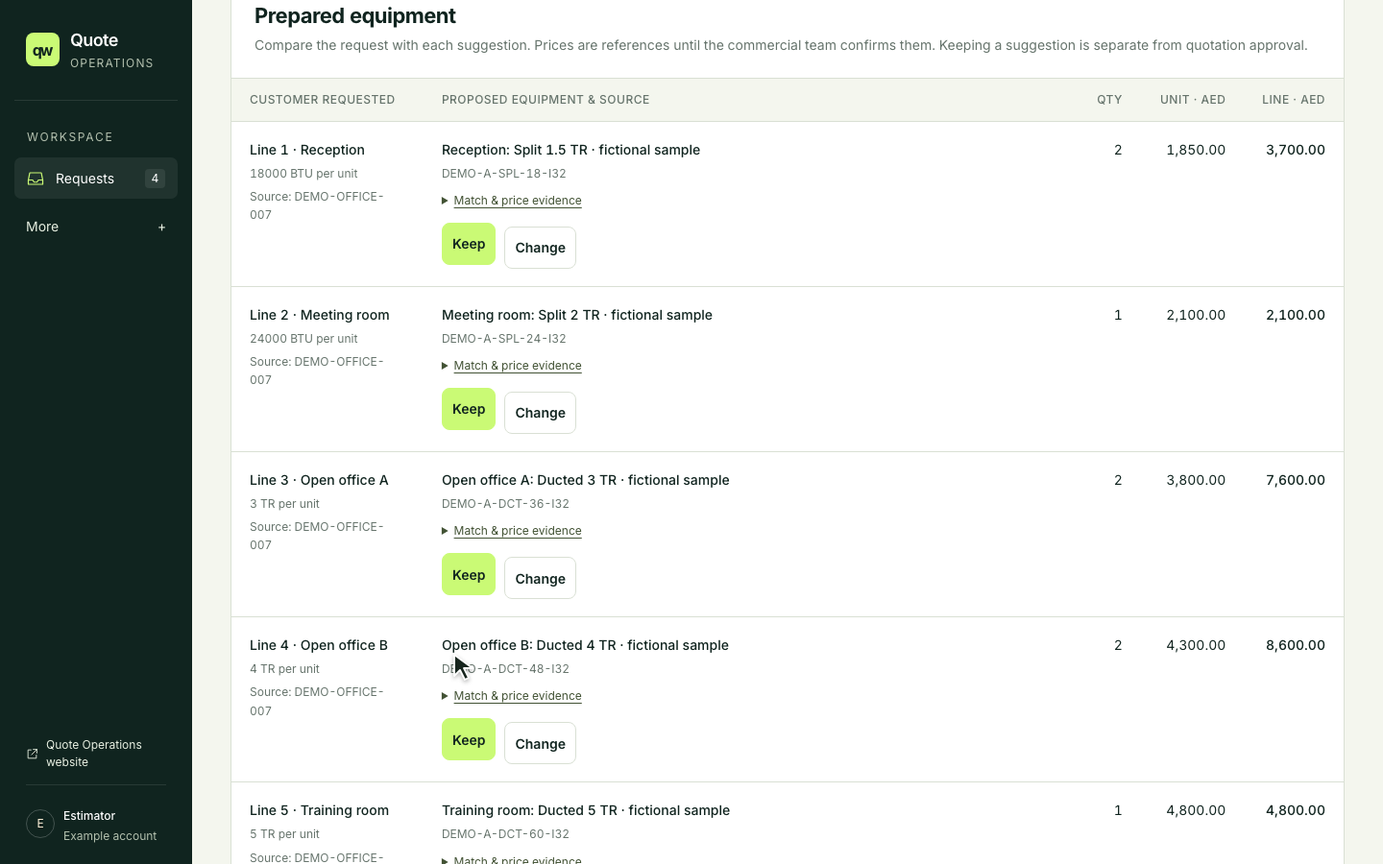
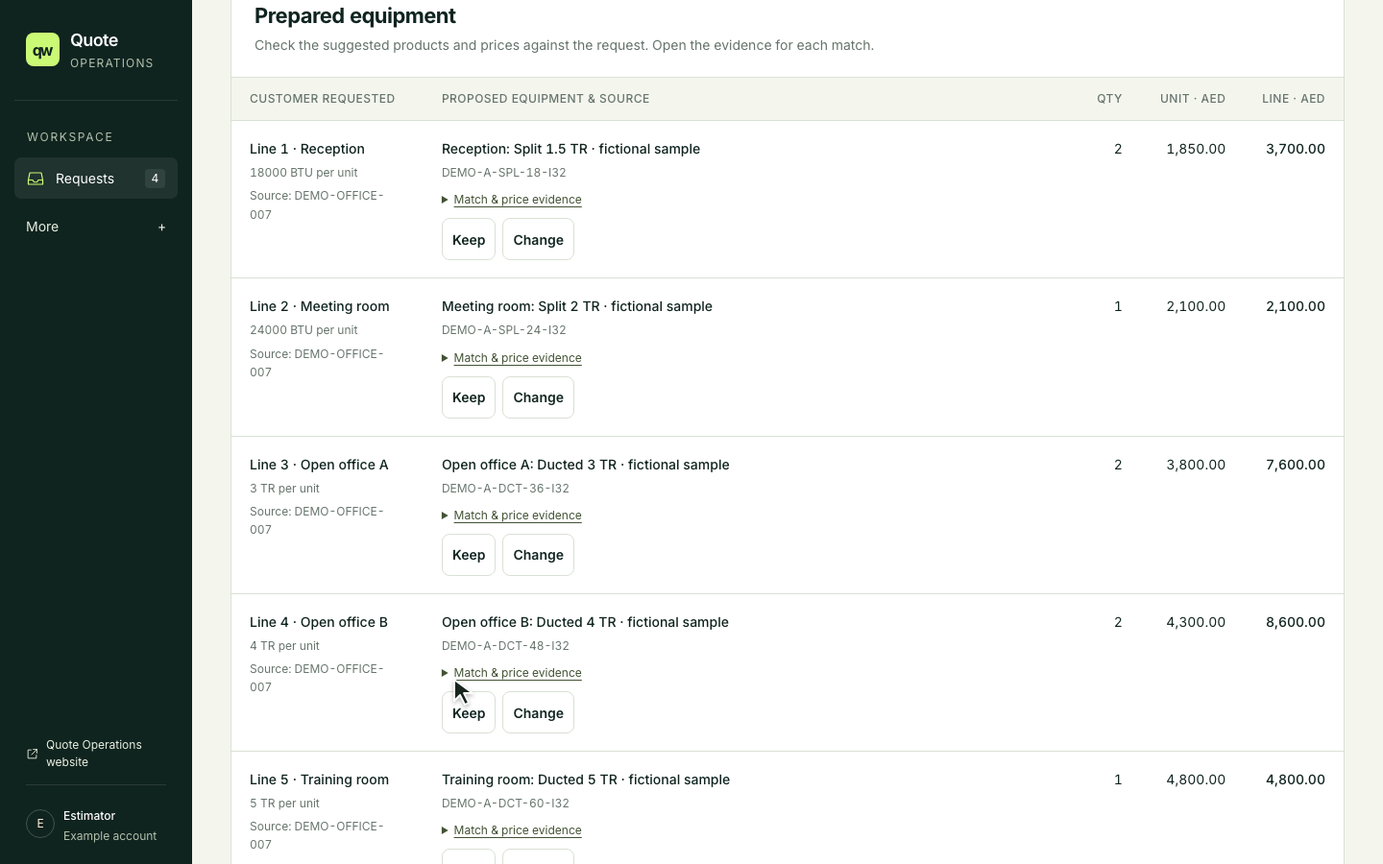
Clarify Quote Operations positioning and refresh product screenshot

diff --git a/docs/index.html b/docs/index.html
@@ -1,7 +1,7 @@
 <!doctype html>
 <html lang="en"><head><meta charset="utf-8"><meta name="viewport" content="width=device-width,initial-scale=1"><meta name="robots" content="index,follow"><title>Khaled / Product portfolio</title><meta name="description" content="Khaled is a founder in Dubai building practical products for quotation, customer support and property teams."><meta property="og:type" content="website"><meta property="og:image" content="https://kbartawi.github.io/media/portfolio.png"><meta property="og:title" content="Khaled / Product portfolio"><meta property="og:description" content="Khaled is a founder in Dubai building practical products for quotation, customer support and property teams."><link rel="canonical" href="https://kbartawi.github.io/"><meta property="og:url" content="https://kbartawi.github.io/"><link rel="stylesheet" href="/fonts.css"><link rel="stylesheet" href="/review.css"><link rel="stylesheet" href="/portfolio.css"></head><body class="public-portfolio "><a class="skip" href="#main">Skip to content</a><header class="top"><a class="monogram" href="/" aria-label="KB portfolio home">kb<span> / </span></a><span class="edition">PRODUCT PORTFOLIO</span><nav class="portfolio-nav" aria-label="Main navigation"><a href="/#projects" aria-current="page">Projects</a><a href="/#about">About</a><a href="https://github.com/Kbartawi" target="_blank" rel="noopener noreferrer">GitHub ↗</a></nav></header><main id="main">
     <section class="intro"><p class="eyebrow">KHALED · FOUNDER IN DUBAI</p><h1>Four products.<br><span>A clearer point of view.</span></h1><div class="intro-bottom"><p>I’m Khaled, a founder in Dubai.<br>I build practical products for busy teams.</p><p class="review-note">B2B products · Arabic + English<br>Explore the audience, the product and what comes next.</p></div></section>
-    <section id="projects" aria-label="Projects"><a class="feature project hvac" href="/projects/quote-operations/"><img src="/media/quote-review-current.png" alt="Quote Operations draft review showing prepared equipment, source evidence and decisions needing a person. Fictional demonstration data." width="1672" height="941" fetchpriority="high"><div class="feature-shade"></div><div class="feature-heading"><span class="brand hvac">quote operations<span>.</span></span><span class="tag">B2B / EQUIPMENT QUOTATIONS</span></div><div class="feature-content"><p class="eyebrow">HVAC EQUIPMENT SALES AND ESTIMATING TEAMS</p><h2>A request in.<br><em>A draft to review.</em></h2><p>AI-assisted equipment quotation preparation. Turn a customer request into a matched, priced draft, with the missing details and decisions together.</p><span class="open-button">Meet Quote Operations <span aria-hidden="true">↗</span></span></div><div class="feature-foot"><span>Working AI demo · Pilot preparation</span><span>UAE · English + Arabic</span></div></a><div class="grid"><a class="project small oris" href="/projects/oris/"><div class="card-heading"><span class="brand oris">oris<span aria-hidden="true">✳</span></span><span>02 / B2B<br>CUSTOMER SUPPORT</span></div><div class="card-visual oris-visual" aria-hidden="true"><div class="chat" lang="ar" dir="rtl">هل التوصيل متاح إلى الشارقة؟</div><div class="chat reply">The right context.<br><strong>A more useful handoff.</strong></div><span class="signal"><i></i> Human attention</span></div><div class="card-copy"><h2>Every conversation,<br><em>with context.</em></h2><p>Arabic and English customer support built around business knowledge, useful answers and a clear handoff to a person.</p><dl class="card-facts"><div><dt>For</dt><dd>E-commerce brands and customer support teams</dd></div><div><dt>Stage</dt><dd>Live product</dd></div></dl><span class="text-link">Meet Oris <span aria-hidden="true">↗</span></span></div></a><a class="project small manzl" href="/projects/manzl/"><div class="card-heading"><span class="brand manzl">manzl<span>.</span></span><span>03 / B2B<br>LEASING ENQUIRIES</span></div><div class="card-visual"><img src="/media/manzl-apartment.webp" alt="Illustrative apartment with warm natural materials" width="1672" height="941" loading="lazy"><span class="property-caption">Leasing enquiries</span></div><div class="card-copy"><h2>Meet Reem.<br><em>Move things forward.</em></h2><p>An AI leasing assistant that qualifies enquiries, proposes viewing slots and prepares a useful handoff for the human agent.</p><dl class="card-facts"><div><dt>For</dt><dd>UAE brokerages and property management teams</dd></div><div><dt>Stage</dt><dd>Working prototype</dd></div></dl><span class="text-link">Meet Manzl <span aria-hidden="true">↗</span></span></div></a><a class="project small aqd" href="/projects/aqd/"><div class="card-heading"><span class="brand aqd">aqd<span lang="ar">عقد</span></span><span>04 / B2B<br>TENANCY PREPARATION</span></div><div class="card-visual aqd-visual" aria-hidden="true"><div class="readiness-paper"><span>PREPARATION NOTES</span><div><i>✓</i> Property details</div><div><i>✓</i> Rent schedule</div><div class="open-item"><i>○</i> Tenant documents</div><p>One clear place to begin.</p></div></div><div class="card-copy"><h2>A clearer start.<br><em>A calmer handoff.</em></h2><p>A tenancy close pack that brings property details, documents, cheque planning and open items into one preparation flow.</p><dl class="card-facts"><div><dt>For</dt><dd>Dubai leasing teams and brokerages</dd></div><div><dt>Stage</dt><dd>Working demo</dd></div></dl><span class="text-link">Meet Aqd <span aria-hidden="true">↗</span></span></div></a></div></section>
+    <section id="projects" aria-label="Projects"><a class="feature project hvac" href="/projects/quote-operations/"><img src="/media/quote-review-current.png" alt="Quote Operations equipment review showing requested items beside suggested products, quantities and prices. Fictional sample data." width="1672" height="941" fetchpriority="high"><div class="feature-shade"></div><div class="feature-heading"><span class="brand hvac">quote operations<span>.</span></span><span class="tag">B2B / HVAC QUOTATIONS</span></div><div class="feature-content"><p class="eyebrow">HVAC EQUIPMENT SALES AND ESTIMATING TEAMS</p><h2>Equipment quotes.<br><em>Less manual work.</em></h2><p>Prepare equipment quotes without copying every line by hand. Check suggested products, available prices and missing details in one draft.</p><span class="open-button">Meet Quote Operations <span aria-hidden="true">↗</span></span></div><div class="feature-foot"><span>Working demo · Pilot preparation</span><span>UAE · English + Arabic</span></div></a><div class="grid"><a class="project small oris" href="/projects/oris/"><div class="card-heading"><span class="brand oris">oris<span aria-hidden="true">✳</span></span><span>02 / B2B<br>CUSTOMER SUPPORT</span></div><div class="card-visual oris-visual" aria-hidden="true"><div class="chat" lang="ar" dir="rtl">هل التوصيل متاح إلى الشارقة؟</div><div class="chat reply">The right context.<br><strong>A more useful handoff.</strong></div><span class="signal"><i></i> Human attention</span></div><div class="card-copy"><h2>Every conversation,<br><em>with context.</em></h2><p>Arabic and English customer support built around business knowledge, useful answers and a clear handoff to a person.</p><dl class="card-facts"><div><dt>For</dt><dd>E-commerce brands and customer support teams</dd></div><div><dt>Stage</dt><dd>Live product</dd></div></dl><span class="text-link">Meet Oris <span aria-hidden="true">↗</span></span></div></a><a class="project small manzl" href="/projects/manzl/"><div class="card-heading"><span class="brand manzl">manzl<span>.</span></span><span>03 / B2B<br>LEASING ENQUIRIES</span></div><div class="card-visual"><img src="/media/manzl-apartment.webp" alt="Illustrative apartment with warm natural materials" width="1672" height="941" loading="lazy"><span class="property-caption">Leasing enquiries</span></div><div class="card-copy"><h2>Meet Reem.<br><em>Move things forward.</em></h2><p>An AI leasing assistant that qualifies enquiries, proposes viewing slots and prepares a useful handoff for the human agent.</p><dl class="card-facts"><div><dt>For</dt><dd>UAE brokerages and property management teams</dd></div><div><dt>Stage</dt><dd>Working prototype</dd></div></dl><span class="text-link">Meet Manzl <span aria-hidden="true">↗</span></span></div></a><a class="project small aqd" href="/projects/aqd/"><div class="card-heading"><span class="brand aqd">aqd<span lang="ar">عقد</span></span><span>04 / B2B<br>TENANCY PREPARATION</span></div><div class="card-visual aqd-visual" aria-hidden="true"><div class="readiness-paper"><span>PREPARATION NOTES</span><div><i>✓</i> Property details</div><div><i>✓</i> Rent schedule</div><div class="open-item"><i>○</i> Tenant documents</div><p>One clear place to begin.</p></div></div><div class="card-copy"><h2>A clearer start.<br><em>A calmer handoff.</em></h2><p>A tenancy close pack that brings property details, documents, cheque planning and open items into one preparation flow.</p><dl class="card-facts"><div><dt>For</dt><dd>Dubai leasing teams and brokerages</dd></div><div><dt>Stage</dt><dd>Working demo</dd></div></dl><span class="text-link">Meet Aqd <span aria-hidden="true">↗</span></span></div></a></div></section>
     <section class="about-work" id="about"><div><p class="eyebrow">ABOUT THE WORK</p><h2>Different problems.<br><span>A practical point of view.</span></h2></div><div><p>I’m Khaled, a founder based in Dubai. I build practical products around the work between a conversation and a decision: preparing a quotation, helping a customer, qualifying an enquiry and getting a tenancy ready. This is a living collection of that work.</p><p>Each profile explains the product’s audience and current stage. Public product links are included where available; projects still in development are clearly labelled.</p></div></section>
-    <section class="portfolio-updates" aria-labelledby="updates-title"><div class="updates-heading"><p class="eyebrow">LATEST PROJECT UPDATES</p><h2 id="updates-title">The work keeps moving.</h2></div><div><a class="update-row" href="/projects/quote-operations/"><time datetime="2026-09-09">Sep 9, 2026</time><div><strong>Quote Operations</strong><p>Added visible AI preparation and a focused draft review: catalogue matches, price sources and unresolved equipment decisions in one place.</p></div><span aria-hidden="true">↗</span></a><a class="update-row" href="/projects/quote-operations/"><time datetime="2026-09-08">Sep 8, 2026</time><div><strong>Quote Operations</strong><p>Opened the public sample without an email, booking or account.</p></div><span aria-hidden="true">↗</span></a><a class="update-row" href="/projects/oris/"><time datetime="2026-09-04">Sep 4, 2026</time><div><strong>Oris</strong><p>Added a bilingual product experience and a focused conversation handoff desk.</p></div><span aria-hidden="true">↗</span></a><a class="update-row" href="/projects/manzl/"><time datetime="2026-09-04">Sep 4, 2026</time><div><strong>Manzl</strong><p>Added a leasing qualification workspace with missing details and copyable handoff briefs.</p></div><span aria-hidden="true">↗</span></a></div></section>
+    <section class="portfolio-updates" aria-labelledby="updates-title"><div class="updates-heading"><p class="eyebrow">LATEST PROJECT UPDATES</p><h2 id="updates-title">The work keeps moving.</h2></div><div><a class="update-row" href="/projects/quote-operations/"><time datetime="2026-09-09">Sep 9, 2026</time><div><strong>Quote Operations</strong><p>Simplified the request list and quotation review, made the website clearer for HVAC sales teams, and focused the demo on preparing the quote and checking the details.</p></div><span aria-hidden="true">↗</span></a><a class="update-row" href="/projects/quote-operations/"><time datetime="2026-09-08">Sep 8, 2026</time><div><strong>Quote Operations</strong><p>Opened the public sample without an email, booking or account.</p></div><span aria-hidden="true">↗</span></a><a class="update-row" href="/projects/oris/"><time datetime="2026-09-04">Sep 4, 2026</time><div><strong>Oris</strong><p>Added a bilingual product experience and a focused conversation handoff desk.</p></div><span aria-hidden="true">↗</span></a><a class="update-row" href="/projects/manzl/"><time datetime="2026-09-04">Sep 4, 2026</time><div><strong>Manzl</strong><p>Added a leasing qualification workspace with missing details and copyable handoff briefs.</p></div><span aria-hidden="true">↗</span></a></div></section>
   </main><footer><a class="monogram" href="/">kb<span> / </span></a><p>A living collection of products.<br>Updated Sep 9, 2026</p><p>Public samples use example data.<br>Architectural imagery is illustrative.</p></footer></body></html>

diff --git a/docs/projects/quote-operations/index.html b/docs/projects/quote-operations/index.html
@@ -1,10 +1,10 @@
 <!doctype html>
-<html lang="en"><head><meta charset="utf-8"><meta name="viewport" content="width=device-width,initial-scale=1"><meta name="robots" content="index,follow"><title>Quote Operations / Equipment quotations / KB</title><meta name="description" content="AI-assisted equipment quotation preparation. Turn a customer request into a matched, priced draft, with the missing details and decisions together."><meta property="og:type" content="website"><meta property="og:image" content="https://kbartawi.github.io/media/portfolio.png"><meta property="og:title" content="Quote Operations / Equipment quotations / KB"><meta property="og:description" content="AI-assisted equipment quotation preparation. Turn a customer request into a matched, priced draft, with the missing details and decisions together."><link rel="canonical" href="https://kbartawi.github.io/projects/quote-operations/"><meta property="og:url" content="https://kbartawi.github.io/projects/quote-operations/"><link rel="stylesheet" href="/fonts.css"><link rel="stylesheet" href="/review.css"><link rel="stylesheet" href="/portfolio.css"></head><body class="public-portfolio profile-page theme-hvac"><a class="skip" href="#main">Skip to content</a><header class="top"><a class="monogram" href="/" aria-label="KB portfolio home">kb<span> / </span></a><span class="edition">PRODUCT PORTFOLIO</span><nav class="portfolio-nav" aria-label="Main navigation"><a href="/#projects">Projects</a><a href="/#about">About</a><a href="https://github.com/Kbartawi" target="_blank" rel="noopener noreferrer">GitHub ↗</a></nav></header><main id="main">
+<html lang="en"><head><meta charset="utf-8"><meta name="viewport" content="width=device-width,initial-scale=1"><meta name="robots" content="index,follow"><title>Quote Operations / HVAC quotations / KB</title><meta name="description" content="Prepare equipment quotes without copying every line by hand. Check suggested products, available prices and missing details in one draft."><meta property="og:type" content="website"><meta property="og:image" content="https://kbartawi.github.io/media/portfolio.png"><meta property="og:title" content="Quote Operations / HVAC quotations / KB"><meta property="og:description" content="Prepare equipment quotes without copying every line by hand. Check suggested products, available prices and missing details in one draft."><link rel="canonical" href="https://kbartawi.github.io/projects/quote-operations/"><meta property="og:url" content="https://kbartawi.github.io/projects/quote-operations/"><link rel="stylesheet" href="/fonts.css"><link rel="stylesheet" href="/review.css"><link rel="stylesheet" href="/portfolio.css"></head><body class="public-portfolio profile-page theme-hvac"><a class="skip" href="#main">Skip to content</a><header class="top"><a class="monogram" href="/" aria-label="KB portfolio home">kb<span> / </span></a><span class="edition">PRODUCT PORTFOLIO</span><nav class="portfolio-nav" aria-label="Main navigation"><a href="/#projects">Projects</a><a href="/#about">About</a><a href="https://github.com/Kbartawi" target="_blank" rel="noopener noreferrer">GitHub ↗</a></nav></header><main id="main">
     <div class="profile-breadcrumb"><a href="/#projects">All projects</a><span aria-hidden="true">/</span><span>Quote Operations</span></div>
-    <section class="profile-hero"><div><div class="profile-brand"><span class="brand hvac">quote operations<span>.</span></span><span class="profile-chip">B2B · Equipment quotations</span></div><h1>A request in.<br><em>A draft to review.</em></h1><p class="profile-summary">AI-assisted equipment quotation preparation. Turn a customer request into a matched, priced draft, with the missing details and decisions together.</p><div class="profile-actions"><a class="primary-link" href="https://quote-operations.vercel.app/#qs-demo" target="_blank" rel="noopener noreferrer">Watch the demo <span aria-hidden="true">↗</span></a><a class="secondary-link" href="https://quote-operations.vercel.app/" target="_blank" rel="noopener noreferrer">Visit product website <span aria-hidden="true">↗</span></a></div><p class="profile-demo-note">Watch the AI preparation workflow on the product website, then try the public prepared sample without an account. The demonstration uses fictional equipment and prices.</p></div><aside class="profile-facts" aria-label="Project at a glance"><p class="eyebrow">AT A GLANCE</p><dl><div><dt>Business model</dt><dd>B2B · Business to business</dd></div><div><dt>For</dt><dd>HVAC equipment sales and estimating teams</dd></div><div><dt>Buyer</dt><dd>Sales directors and quotation desk managers</dd></div><div><dt>Users</dt><dd>Salespeople, estimators and engineering or commercial reviewers</dd></div><div><dt>Market</dt><dd>UAE</dd></div><div><dt>Languages</dt><dd>English + Arabic</dd></div><div><dt>Stage</dt><dd>Working AI demo · Pilot preparation</dd></div><div><dt>Profile updated</dt><dd>Sep 9, 2026</dd></div></dl></aside></section>
-    <section class="profile-story"><div><p class="eyebrow">THE PROBLEM</p><h2>Why it exists.</h2><p>A salesperson receives a request by email or WhatsApp, then reads the equipment requirements, searches a catalogue, checks prices and asks colleagues about gaps. That preparation repeats for every quotation, while engineering and commercial decisions still need a person.</p></div><div><p class="eyebrow">THE PRODUCT</p><h2>What it does.</h2><ol class="capability-list"><li><span>01</span><p>Paste an English or Arabic request from email or WhatsApp, or upload one printed PDF. Direct inbox and WhatsApp connections are not part of this pilot.</p></li><li><span>02</span><p>Watch the request being read, catalogue items being matched and available prices being applied. Useful results appear as they are ready.</p></li><li><span>03</span><p>Review the original request, proposed equipment and price source together. Missing quantities, unavailable prices and engineering questions stay visible.</p></li><li><span>04</span><p>Confirm the equipment and commercial terms, then request a separate approval before export. Keep the source and each quotation version.</p></li></ol></div></section>
-    <section class="profile-flow" aria-labelledby="flow-title"><div><p class="eyebrow">WHERE IT FITS</p><h2 id="flow-title">One clear workflow.</h2></div><ol><li><span>01</span><h3>Add the request</h3></li><li><span>02</span><h3>Review the prepared draft</h3></li><li><span>03</span><h3>Resolve, approve and export</h3></li></ol></section>
-    <section class="profile-roadmap"><div><p class="eyebrow">WHAT COMES NEXT</p><h2>The current focus.</h2><ul><li>Validate one quotation workflow with an equipment sales team</li><li>Connect a company-approved catalogue, pricing sources and review rules</li><li>Measure preparation time and the decisions still waiting on people</li></ul><p class="roadmap-note">These are areas of work, not release-date commitments.</p></div><div><p class="eyebrow">PROJECT UPDATES</p><article class="project-update"><time datetime="2026-09-09">Sep 9, 2026</time><p>Added visible AI preparation and a focused draft review: catalogue matches, price sources and unresolved equipment decisions in one place.</p></article><article class="project-update"><time datetime="2026-09-08">Sep 8, 2026</time><p>Opened the public sample without an email, booking or account.</p></article></div></section>
+    <section class="profile-hero"><div><div class="profile-brand"><span class="brand hvac">quote operations<span>.</span></span><span class="profile-chip">B2B · HVAC quotations</span></div><h1>Equipment quotes.<br><em>Less manual work.</em></h1><p class="profile-summary">Prepare equipment quotes without copying every line by hand. Check suggested products, available prices and missing details in one draft.</p><div class="profile-actions"><a class="primary-link" href="https://quote-operations.vercel.app/#qs-demo" target="_blank" rel="noopener noreferrer">Watch the demo <span aria-hidden="true">↗</span></a><a class="secondary-link" href="https://quote-operations.vercel.app/" target="_blank" rel="noopener noreferrer">Visit product website <span aria-hidden="true">↗</span></a></div><p class="profile-demo-note">Watch real app clicks with local AI and fictional data, then try the prepared public sample without an account. Company catalogues, approved prices and team access still need setup. Email and WhatsApp are not connected automatically.</p></div><aside class="profile-facts" aria-label="Project at a glance"><p class="eyebrow">AT A GLANCE</p><dl><div><dt>Business model</dt><dd>B2B · Business to business</dd></div><div><dt>For</dt><dd>HVAC equipment sales and estimating teams</dd></div><div><dt>Buyer</dt><dd>Sales directors and quotation desk managers</dd></div><div><dt>Users</dt><dd>Salespeople, estimators and engineering or commercial reviewers</dd></div><div><dt>Market</dt><dd>UAE</dd></div><div><dt>Languages</dt><dd>English + Arabic</dd></div><div><dt>Stage</dt><dd>Working demo · Pilot preparation</dd></div><div><dt>Profile updated</dt><dd>Sep 9, 2026</dd></div></dl></aside></section>
+    <section class="profile-story"><div><p class="eyebrow">THE PROBLEM</p><h2>Why it exists.</h2><p>A customer asks for a price. Someone still has to read the equipment list, copy the quantities, find the right products and check the selling prices. When details are missing, the quote goes back to a colleague for a decision.</p></div><div><p class="eyebrow">THE PRODUCT</p><h2>What it does.</h2><ol class="capability-list"><li><span>01</span><p>With AI set up, paste an English or Arabic request from email or WhatsApp, or upload one printed PDF equipment list. The app reads the lines and quantities.</p></li><li><span>02</span><p>Review suggested products and available prices beside the request. Open a line to check where its product or price came from.</p></li><li><span>03</span><p>See missing quantities, uncertain selections and unavailable prices first. Keep technical decisions with your engineer.</p></li><li><span>04</span><p>Confirm the products, prices and terms, then get a colleague’s approval and download the quote. Customer changes get a new version; the earlier quote stays saved.</p></li></ol></div></section>
+    <section class="profile-flow" aria-labelledby="flow-title"><div><p class="eyebrow">WHERE IT FITS</p><h2 id="flow-title">One clear workflow.</h2></div><ol><li><span>01</span><h3>Add the request</h3></li><li><span>02</span><h3>Check what needs a decision</h3></li><li><span>03</span><h3>Approve and download</h3></li></ol></section>
+    <section class="profile-roadmap"><div><p class="eyebrow">WHAT COMES NEXT</p><h2>The current focus.</h2><ul><li>Compare one past request with the team’s approved quotation</li><li>Connect the products, selling prices and approval rules used for that job</li><li>Measure corrections and preparation time, separately from approval waiting time</li></ul><p class="roadmap-note">These are areas of work, not release-date commitments.</p></div><div><p class="eyebrow">PROJECT UPDATES</p><article class="project-update"><time datetime="2026-09-09">Sep 9, 2026</time><p>Simplified the request list and quotation review, made the website clearer for HVAC sales teams, and focused the demo on preparing the quote and checking the details.</p></article><article class="project-update"><time datetime="2026-09-08">Sep 8, 2026</time><p>Opened the public sample without an email, booking or account.</p></article></div></section>
     <section class="profile-close"><div><p class="eyebrow">EXPLORE THE PRODUCT</p><h2>Explore Quote Operations.</h2><p>The public sample uses fictional data.</p></div><a class="primary-link" href="https://quote-operations.vercel.app/#qs-demo" target="_blank" rel="noopener noreferrer">Watch the demo <span aria-hidden="true">↗</span></a></section>
     <a class="next-project" href="/projects/oris/"><span>Next project</span><strong>Oris</strong><span aria-hidden="true">↗</span></a>
   </main><footer><a class="monogram" href="/">kb<span> / </span></a><p>A living collection of products.<br>Updated Sep 9, 2026</p><p>Public samples use example data.<br>Architectural imagery is illustrative.</p></footer></body></html>

diff --git a/README.md b/README.md
@@ -21,10 +21,10 @@ The build writes the homepage, four project profiles, sitemap, metadata and a 40
 
 Use the public repository `Kbartawi/Kbartawi.github.io`. In Settings → Pages, select **Deploy from a branch**, branch **main**, folder **/docs**. The personal GitHub profile can link to this home once publication is verified.
 
-Quote Operations presents the current AI-assisted preparation workflow, with a current fictional quotation screenshot and links to the product website, narrated demo and public sample. Its copy distinguishes pasted email/WhatsApp requests from direct channel integrations, and keeps engineering and commercial review explicit. Oris links to its public product website. Manzl and Aqd have profiles without demo buttons because their demos are not publicly available. This repository contains only the curated public portfolio, not private product applications or review workspaces.
+Quote Operations focuses on preparing HVAC equipment quotes with less manual copying. Its profile shows the current review screenshot and links to the website, narrated app demonstration and prepared public sample. The copy distinguishes the local AI recording from the public sample and keeps company catalogue, prices and team setup explicit. Oris links to its public product website. Manzl and Aqd have profiles without demo buttons because their demos are not publicly available. This repository contains only the curated public portfolio, not private product applications or review workspaces.
 
 ## Current Quote Operations update · 9 September 2026
 
-The featured profile explains the actual workflow: add an English or Arabic request, review a prepared catalogue/pricing draft, resolve exceptions and request approval. Public demonstrations use fictional data. Company catalogue onboarding, integrations and customer ROI remain pilot work.
+The featured profile follows one simple workflow: add the request, check what needs a decision, then approve and download. The next pilot starts with one past request and its approved quotation. Public demonstrations use fictional data; company catalogues, approved selling prices, team access and measured customer results remain pilot work.
 
 Product: [quote-operations.vercel.app](https://quote-operations.vercel.app/) · [Watch the workflow](https://quote-operations.vercel.app/#qs-demo) · [Try the prepared sample](https://quote-operations.vercel.app/workspace?demo=review).
